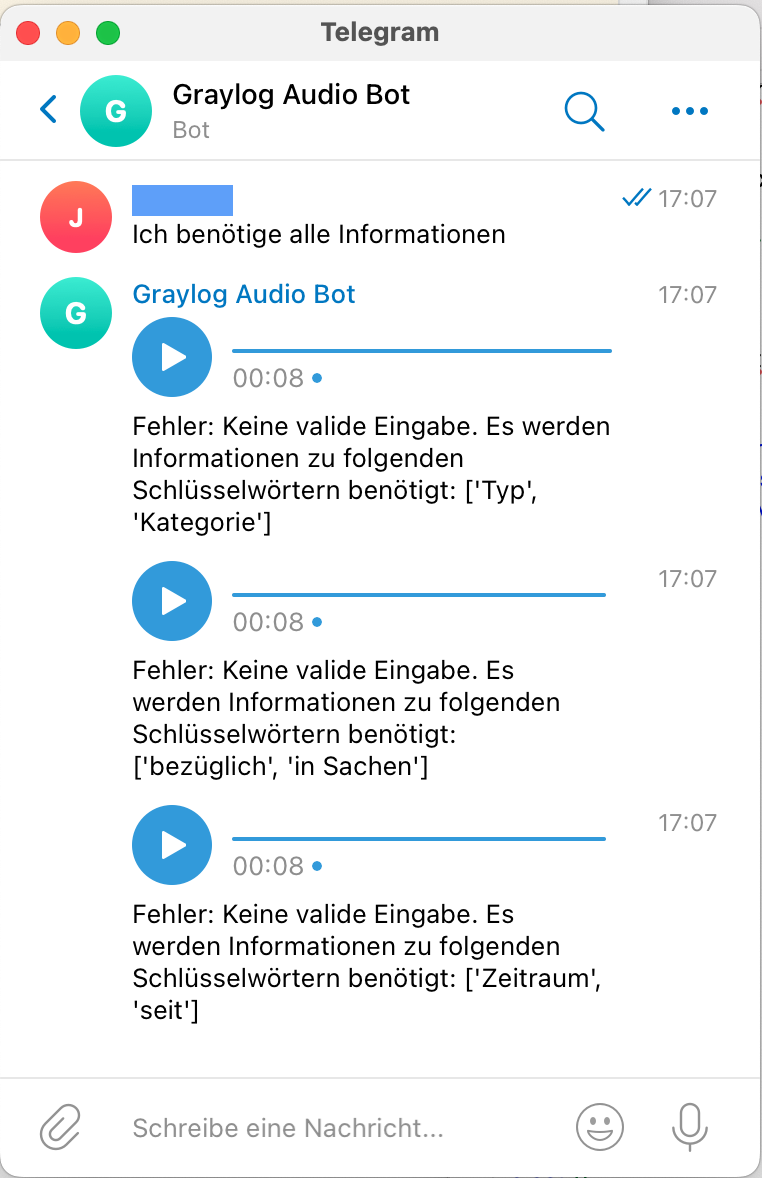
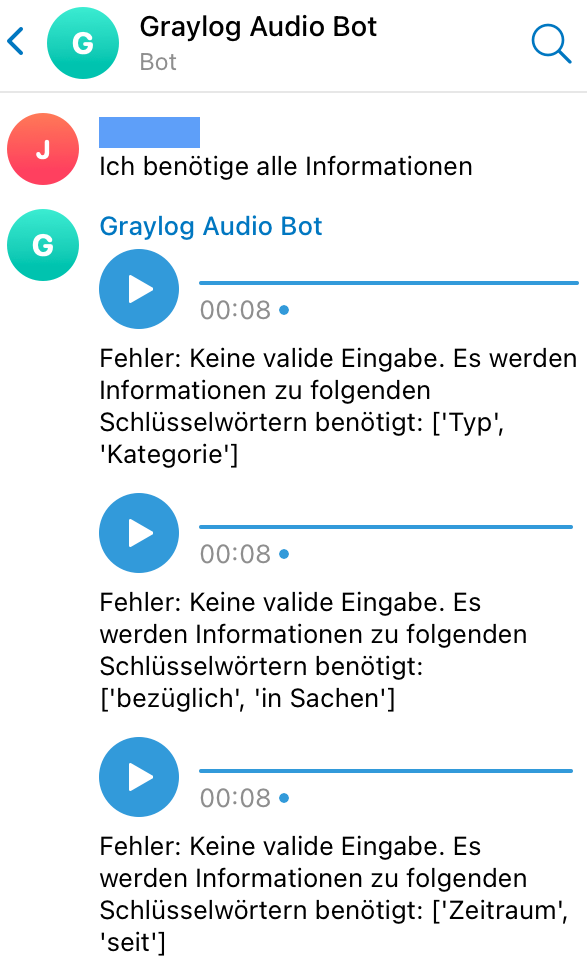
display abb 5.1 5.2 side by side

diff --git a/doc/tex/50_fazit.tex b/doc/tex/50_fazit.tex
@@ -14,20 +14,22 @@ Auch aus Sicht der IT-Sicherheit bringt die Verwendung des Telegram-Bots Vorteil
 Der Code der entwickelten Software wurde über ein GitHub-Repository \footnote{\url{https://github.com/Jomibe/ba}} veröffentlicht, sodass die Installation und Konfiguration des Bots für eine eigene Installation von Graylog wiederverwendet oder optimiert werden kann. Für den Betrieb ist es notwendig, zuvor die angeschlossenen Dienste inkl. der API-Zugriffsdaten zu konfigurieren. Im Anschluss kann die Software mit einem Python Interpreter ausgeführt werden und ist einsatzbereit, sobald die Vorbereitungsphase abgeschlossen ist. Mithilfe der aktivierten ausführlichen Ausgaben zum Programmablauf können die Vorgänge und dessen Auslöser gut zurückverfolgt werden. Im Folgenden zeigen zwei Abbildungen die Interaktion mit dem Bot über den Telegram Messenger:
 
 \begin{figure}[h!]
-\centering
-\includegraphics[scale=0.7]{bsp-betrieb}
-\caption{Bot beantwortet eine Anfrage in Telegram für macOS.}
+    \centering
+    \begin{minipage}{0.5\textwidth}
+        \raggedright
+        \includegraphics[width=0.9\textwidth]{bsp-betrieb}
+        \caption{Bot beantwortet eine \\\hspace{\textwidth}Anfrage in Telegram.}
+        \label{fig:bsp-betrieb}
+    \end{minipage}\hfill
+    \begin{minipage}{0.5\textwidth}
+        \raggedleft
+        \includegraphics[width=0.9\textwidth]{bsp-fehler}
+        \caption{Bot reagiert auf fehlerhafte \\\hspace{\textwidth}Anfrage in Telegram.}
+        \label{fig:bsp-fehler}
+    \end{minipage}
 \end{figure}
-\label{fig:bsp-betrieb}
 
 Die obige Abbildung zeigt, wie der Bot eine Anfrage beantwortet. Zuerst wird dem Benutzer eine Rückmeldung gesendet, sobald die Transkription fertiggestellt ist. Im Anschluss erfolgt die Beantwortung der eingesendeten Anfrage. Alle Nachrichten des Bots werden in einer kombinierten Sprachnachricht gesendet, welche zusätzlich den gesprochenen Text in geschriebener Form enthält. Zusätzlich ist es möglich, Anfragen per Textnachricht einzusenden, wie \autoref{fig:bsp-fehler} zeigt:
-
-\begin{figure}[h!]
-\label{fig:bsp-fehler}
-\centering
-\includegraphics[scale=0.7]{bsp-fehler}
-\caption{Bot reagiert auf fehlerhafte Anfrage in Telegram für macOS.}
-\end{figure}
 
 In \autoref{fig:bsp-fehler} wurde dem Bot eine Nachricht zugestellt, welche nicht die erforderlichen Informationen beinhaltet. Der Bot prüft dies anhand der konfigurierten Schlüsselwörter und weißt den Anwender auf jede fehlende Information hin. 
 
